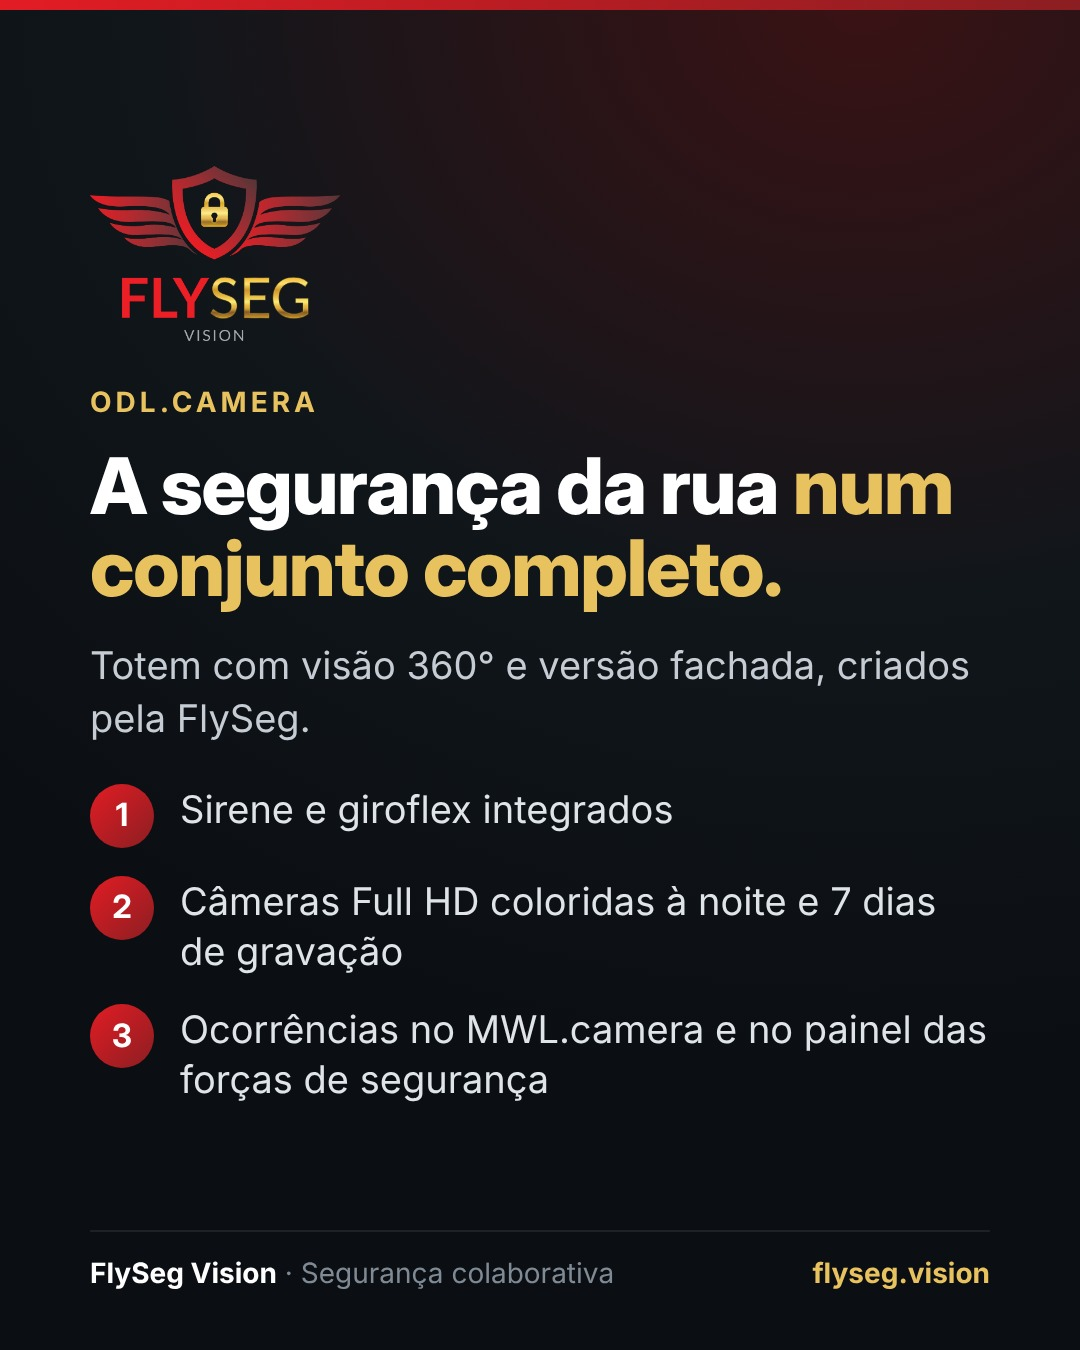
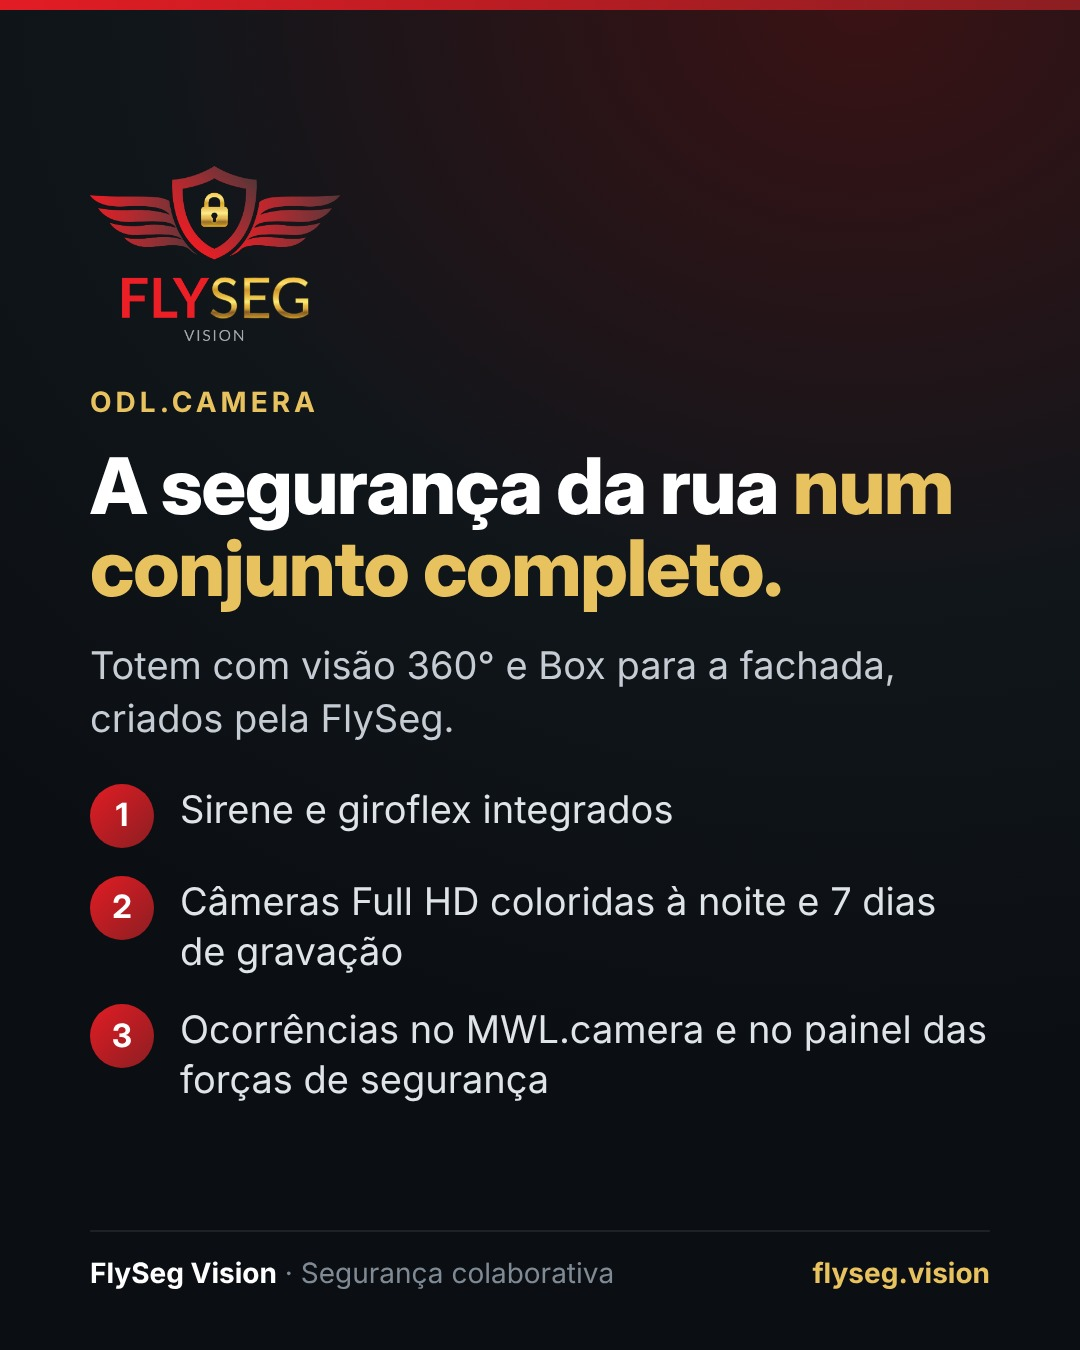
FlySeg ODL: resumo e legenda do LinkedIn alinhados à ficha
Claude-Session: https://claude.ai/code/session_013wqKux7qHbRAJMaH62mhbc

Changed region(s): [[0.4889, 0.4667, 0.8861, 0.5289], [0.0917, 0.4978, 0.4278, 0.56]]

diff --git a/social-flyseg/2026-11-odl-camera/resumo.html b/social-flyseg/2026-11-odl-camera/resumo.html
@@ -8,4 +8,4 @@ ol{list-style:none;display:flex;flex-direction:column}
 li{display:flex;align-items:flex-start;color:#dfe4e9;line-height:1.32}
 li b{border-radius:50%;background:linear-gradient(135deg,#e31c24,#8b1e22);display:flex;align-items:center;justify-content:center;color:#fff;font-family:'Inter Display';flex-shrink:0}
 .ft{position:absolute;display:flex;justify-content:space-between;align-items:center;color:#7f8a94;border-top:2px solid rgba(255,255,255,.08)}.ft b{color:#fff}.ft .g{color:#e9c260;font-weight:700}body{width:1080px;height:1350px}.w{left:90px;right:90px;top:90px;bottom:170px;justify-content:center}.eb{font-size:28px}h1{font-size:78px}.s{font-size:38px}
-ol{gap:28px}li{gap:26px;font-size:38px}li b{width:64px;height:64px;font-size:32px}.ft{left:90px;right:90px;bottom:60px;padding-top:24px;font-size:28px}</style></head><body><div class="bar"></div><div class="w"><img class="logo" src="file:///home/claude/flyseg-posts/logo.png"><div class="eb">ODL.camera</div><h1>A segurança da rua <span>num conjunto completo.</span></h1><p class="s">Totem com visão 360° e versão fachada, criados pela FlySeg.</p><ol><li><b>1</b><span>Sirene e giroflex integrados</span></li><li><b>2</b><span>Câmeras Full HD coloridas à noite e 7 dias de gravação</span></li><li><b>3</b><span>Ocorrências no MWL.camera e no painel das forças de segurança</span></li></ol></div><div class="ft"><span><b>FlySeg Vision</b> · Segurança colaborativa</span><span class="g">flyseg.vision</span></div></body></html>
+ol{gap:28px}li{gap:26px;font-size:38px}li b{width:64px;height:64px;font-size:32px}.ft{left:90px;right:90px;bottom:60px;padding-top:24px;font-size:28px}</style></head><body><div class="bar"></div><div class="w"><img class="logo" src="file:///home/claude/flyseg-posts/logo.png"><div class="eb">ODL.camera</div><h1>A segurança da rua <span>num conjunto completo.</span></h1><p class="s">Totem com visão 360° e Box para a fachada, criados pela FlySeg.</p><ol><li><b>1</b><span>Sirene e giroflex integrados</span></li><li><b>2</b><span>Câmeras Full HD coloridas à noite e 7 dias de gravação</span></li><li><b>3</b><span>Ocorrências no MWL.camera e no painel das forças de segurança</span></li></ol></div><div class="ft"><span><b>FlySeg Vision</b> · Segurança colaborativa</span><span class="g">flyseg.vision</span></div></body></html>
